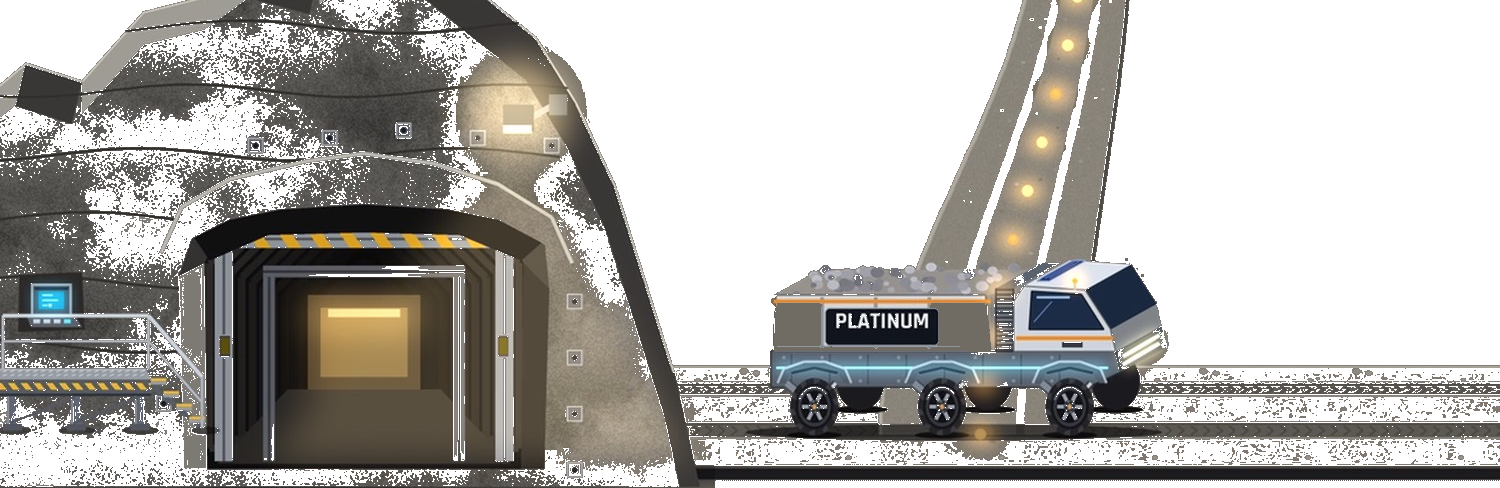
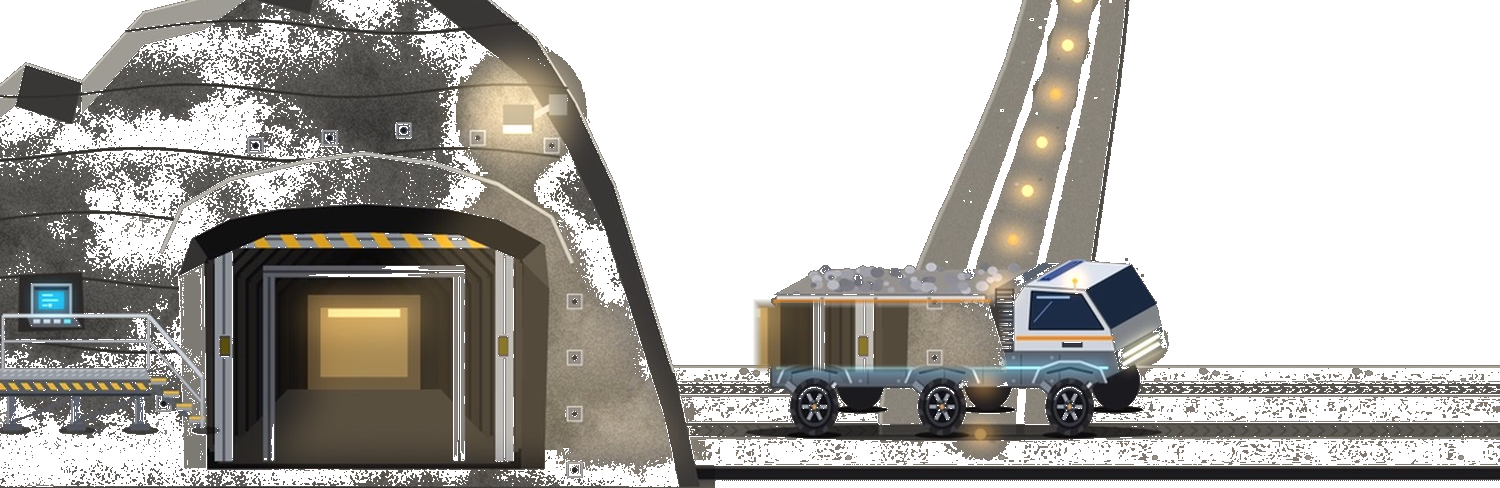
10/14/2026 - planet-stack - 9:35
Take the parked truck out of the mine picture and drive the real truck into the cave and over to the rover bay.

Changed region(s): [[0.4907, 0.6148, 0.6747, 0.7684]]

diff --git a/preview/game.js b/preview/game.js
@@ -374,7 +374,7 @@ const floorFx={},crew={},elev={};
 function crewSync(){F.forEach((d,i)=>{const f=st(i),arr=crew[d.id]||(crew[d.id]=[]);
  while(arr.length<Math.min(4,f.workers))arr.push({x:40+Math.random()*260,v:(Math.random()<.5?-1:1)*30,idle:0,t:Math.random()*5});arr.length=Math.min(arr.length,f.workers)})}
 function crewTick(dt){const m=crewMul();for(const id in crew)for(const a of crew[id]){if(a.idle>0){a.idle-=dt;continue}a.x+=a.v*dt*m;if(a.x<16||a.x>344){a.v=-a.v;a.x=Math.max(16,Math.min(344,a.x))}if(Math.random()<dt*.12)a.idle=1+Math.random()*2}}
-function render(){if(cv.width<20)resize();else{const box=viewBox();if(box.w>20&&(Math.abs(cv.width-Math.round(box.w*DPR))>40||Math.abs(cv.height-Math.round(box.h*DPR))>80))resize()}if(cv.width<20)return;ctx.setTransform(1,0,0,1,0,0);ctx.globalAlpha=1;ctx.globalCompositeOperation='source-over';ctx.fillStyle='#16345c';ctx.fillRect(0,0,cv.width,cv.height);const tag=document.getElementById('pvtag');if(tag&&!tag.dataset.ok){tag.dataset.ok='1';tag.textContent='PREVIEW · 9:20 · ON'}
+function render(){if(cv.width<20)resize();else{const box=viewBox();if(box.w>20&&(Math.abs(cv.width-Math.round(box.w*DPR))>40||Math.abs(cv.height-Math.round(box.h*DPR))>80))resize()}if(cv.width<20)return;ctx.setTransform(1,0,0,1,0,0);ctx.globalAlpha=1;ctx.globalCompositeOperation='source-over';ctx.fillStyle='#16345c';ctx.fillRect(0,0,cv.width,cv.height);const tag=document.getElementById('pvtag');if(tag&&!tag.dataset.ok){tag.dataset.ok='1';tag.textContent='PREVIEW · 9:35 · ON'}
  ctx.setTransform(DPR*SC,0,0,DPR*SC,Math.round(OX*DPR*SC),0);
  const rx=camX(),sx=((-rx*0.05)%390+390)%390,syy=OY*0.5+cam.y*0.05;
  try{if(ok('sky')&&SPR.sky.img.height<=2048)ctx.drawImage(SPR.sky.img,-OX,0,W/SC,H/SC)}catch(e){}
@@ -661,7 +661,7 @@ function drawMineYard(){
  const lg=ctx.createRadialGradient(FG.tunnel+150,-16,6,FG.tunnel+140,-8,110);
  lg.addColorStop(0,'rgba(255,176,80,.42)');lg.addColorStop(1,'rgba(255,176,80,0)');
  ctx.fillStyle=lg;ctx.fillRect(FG.tunnel+40,-90,210,100)}
-const YARD=new Image();YARD.src='art/moon/mine/scene/mine_yard.png?v=1240';
+const YARD=new Image();YARD.src='art/moon/mine/scene/mine_yard.png?v=0935';
 function yardPt(ix,iy){const w=560,h=w*(YARD.naturalHeight||488)/(YARD.naturalWidth||1500);return{x:-300+ix/1500*w,y:6+iy/(YARD.naturalHeight||488)*h}}
 function drawApprovedYard(f){if(!(YARD.complete&&YARD.naturalWidth))return;
  const par=(f.x-195)*(FG.par-1)/TS;
@@ -669,11 +669,11 @@ function drawApprovedYard(f){if(!(YARD.complete&&YARD.naturalWidth))return;
  const w=560,h=w*YARD.naturalHeight/YARD.naturalWidth;
  ctx.drawImage(YARD,-300,6,w,h);   // cave left, lamps on the ground, under the floor. The truck is animated, not baked in.
  ctx.restore()}
-const DUMP=new Image();DUMP.src='art/moon/mine/scene/dump_truck.png?v=1240';
-// Whole truck, transparent around it, never flipped. It drives the road. It does not float up the tower.
+const DUMP=new Image();DUMP.src='art/moon/mine/scene/dump_truck.png?v=0935';
+// Whole truck, transparent around it, never flipped. It drives the road into the cave, then across to the rover bay.
 function drawYardTruck(){if(!S.f.rover||!S.f.rover.built||!(DUMP.complete&&DUMP.naturalWidth))return;
  const sc=560/1500,tw=DUMP.naturalWidth*sc,th=DUMP.naturalHeight*sc;
- const park=yardPt(883,352),mouth=yardPt(520,352),deep=yardPt(400,352),bay=yardPt(1040,352);
+ const park=yardPt(880,360),mouth=yardPt(360,352),deep=yardPt(250,348),bay=yardPt(1180,358);
  const C=12,u=T%C,slide=(a,b,t)=>({x:a.x+(b.x-a.x)*t,y:a.y+(b.y-a.y)*t});
  let p,al=1;
  if(u<3.4)p=slide(park,mouth,u/3.4);

diff --git a/qa/game.js b/qa/game.js
@@ -374,7 +374,7 @@ const floorFx={},crew={},elev={};
 function crewSync(){F.forEach((d,i)=>{const f=st(i),arr=crew[d.id]||(crew[d.id]=[]);
  while(arr.length<Math.min(4,f.workers))arr.push({x:40+Math.random()*260,v:(Math.random()<.5?-1:1)*30,idle:0,t:Math.random()*5});arr.length=Math.min(arr.length,f.workers)})}
 function crewTick(dt){const m=crewMul();for(const id in crew)for(const a of crew[id]){if(a.idle>0){a.idle-=dt;continue}a.x+=a.v*dt*m;if(a.x<16||a.x>344){a.v=-a.v;a.x=Math.max(16,Math.min(344,a.x))}if(Math.random()<dt*.12)a.idle=1+Math.random()*2}}
-function render(){if(cv.width<20)resize();else{const box=viewBox();if(box.w>20&&(Math.abs(cv.width-Math.round(box.w*DPR))>40||Math.abs(cv.height-Math.round(box.h*DPR))>80))resize()}if(cv.width<20)return;ctx.setTransform(1,0,0,1,0,0);ctx.globalAlpha=1;ctx.globalCompositeOperation='source-over';ctx.fillStyle='#16345c';ctx.fillRect(0,0,cv.width,cv.height);const tag=document.getElementById('pvtag');if(tag&&!tag.dataset.ok){tag.dataset.ok='1';tag.textContent='PREVIEW · 9:20 · ON'}
+function render(){if(cv.width<20)resize();else{const box=viewBox();if(box.w>20&&(Math.abs(cv.width-Math.round(box.w*DPR))>40||Math.abs(cv.height-Math.round(box.h*DPR))>80))resize()}if(cv.width<20)return;ctx.setTransform(1,0,0,1,0,0);ctx.globalAlpha=1;ctx.globalCompositeOperation='source-over';ctx.fillStyle='#16345c';ctx.fillRect(0,0,cv.width,cv.height);const tag=document.getElementById('pvtag');if(tag&&!tag.dataset.ok){tag.dataset.ok='1';tag.textContent='PREVIEW · 9:35 · ON'}
  ctx.setTransform(DPR*SC,0,0,DPR*SC,Math.round(OX*DPR*SC),0);
  const rx=camX(),sx=((-rx*0.05)%390+390)%390,syy=OY*0.5+cam.y*0.05;
  try{if(ok('sky')&&SPR.sky.img.height<=2048)ctx.drawImage(SPR.sky.img,-OX,0,W/SC,H/SC)}catch(e){}
@@ -661,7 +661,7 @@ function drawMineYard(){
  const lg=ctx.createRadialGradient(FG.tunnel+150,-16,6,FG.tunnel+140,-8,110);
  lg.addColorStop(0,'rgba(255,176,80,.42)');lg.addColorStop(1,'rgba(255,176,80,0)');
  ctx.fillStyle=lg;ctx.fillRect(FG.tunnel+40,-90,210,100)}
-const YARD=new Image();YARD.src='art/moon/mine/scene/mine_yard.png?v=1240';
+const YARD=new Image();YARD.src='art/moon/mine/scene/mine_yard.png?v=0935';
 function yardPt(ix,iy){const w=560,h=w*(YARD.naturalHeight||488)/(YARD.naturalWidth||1500);return{x:-300+ix/1500*w,y:6+iy/(YARD.naturalHeight||488)*h}}
 function drawApprovedYard(f){if(!(YARD.complete&&YARD.naturalWidth))return;
  const par=(f.x-195)*(FG.par-1)/TS;
@@ -669,11 +669,11 @@ function drawApprovedYard(f){if(!(YARD.complete&&YARD.naturalWidth))return;
  const w=560,h=w*YARD.naturalHeight/YARD.naturalWidth;
  ctx.drawImage(YARD,-300,6,w,h);   // cave left, lamps on the ground, under the floor. The truck is animated, not baked in.
  ctx.restore()}
-const DUMP=new Image();DUMP.src='art/moon/mine/scene/dump_truck.png?v=1240';
-// Whole truck, transparent around it, never flipped. It drives the road. It does not float up the tower.
+const DUMP=new Image();DUMP.src='art/moon/mine/scene/dump_truck.png?v=0935';
+// Whole truck, transparent around it, never flipped. It drives the road into the cave, then across to the rover bay.
 function drawYardTruck(){if(!S.f.rover||!S.f.rover.built||!(DUMP.complete&&DUMP.naturalWidth))return;
  const sc=560/1500,tw=DUMP.naturalWidth*sc,th=DUMP.naturalHeight*sc;
- const park=yardPt(883,352),mouth=yardPt(520,352),deep=yardPt(400,352),bay=yardPt(1040,352);
+ const park=yardPt(880,360),mouth=yardPt(360,352),deep=yardPt(250,348),bay=yardPt(1180,358);
  const C=12,u=T%C,slide=(a,b,t)=>({x:a.x+(b.x-a.x)*t,y:a.y+(b.y-a.y)*t});
  let p,al=1;
  if(u<3.4)p=slide(park,mouth,u/3.4);

diff --git a/preview/index.html b/preview/index.html
@@ -123,4 +123,4 @@ html,body{margin:0;position:fixed;inset:0;overflow:hidden;background:#05070f;col
 <div id="modal"><div class="card"><div style="font:700 20px var(--num)">Welcome back!</div><div id="wbtext" style="color:var(--dim);margin-top:6px"></div><div class="big" id="wbamt"></div><button class="up" id="wbok">COLLECT</button></div></div>
 <div id="demo"><div class="card"><div class="art" id="demoart"></div><div class="kicker" id="demok"></div><h2 id="demoh"></h2><p id="demop"></p><div class="row"><div class="pips" id="demodots"></div><button id="demonext" type="button">NEXT</button></div></div></div>
 <div id="load"><h1>PLANET STACK</h1><div class="bar"><i id="lbar"></i></div></div>
-<script>window.__DEVBUILD=1;const t=document.createElement("div");t.id="pvtag";t.textContent="PREVIEW · 9:20";t.style.cssText="position:fixed;right:calc(env(safe-area-inset-right) + 10px);bottom:calc(env(safe-area-inset-bottom) + 14px);z-index:50;pointer-events:none;font:700 10px/1 system-ui,sans-serif;letter-spacing:1.5px;color:#ffb347;background:rgba(13,20,36,.75);border:1px solid rgba(255,179,71,.6);border-radius:6px;padding:4px 6px";document.body.appendChild(t)</script><script src="game.js?v=0920"></script></body></html>
+<script>window.__DEVBUILD=1;const t=document.createElement("div");t.id="pvtag";t.textContent="PREVIEW · 9:35";t.style.cssText="position:fixed;right:calc(env(safe-area-inset-right) + 10px);bottom:calc(env(safe-area-inset-bottom) + 14px);z-index:50;pointer-events:none;font:700 10px/1 system-ui,sans-serif;letter-spacing:1.5px;color:#ffb347;background:rgba(13,20,36,.75);border:1px solid rgba(255,179,71,.6);border-radius:6px;padding:4px 6px";document.body.appendChild(t)</script><script src="game.js?v=0935"></script></body></html>

diff --git a/qa/index.html b/qa/index.html
@@ -123,4 +123,4 @@ html,body{margin:0;position:fixed;inset:0;overflow:hidden;background:#05070f;col
 <div id="modal"><div class="card"><div style="font:700 20px var(--num)">Welcome back!</div><div id="wbtext" style="color:var(--dim);margin-top:6px"></div><div class="big" id="wbamt"></div><button class="up" id="wbok">COLLECT</button></div></div>
 <div id="demo"><div class="card"><div class="art" id="demoart"></div><div class="kicker" id="demok"></div><h2 id="demoh"></h2><p id="demop"></p><div class="row"><div class="pips" id="demodots"></div><button id="demonext" type="button">NEXT</button></div></div></div>
 <div id="load"><h1>PLANET STACK</h1><div class="bar"><i id="lbar"></i></div></div>
-<script>window.__DEVBUILD=1;const t=document.createElement("div");t.id="pvtag";t.textContent="PREVIEW · 9:20";t.style.cssText="position:fixed;right:calc(env(safe-area-inset-right) + 10px);bottom:calc(env(safe-area-inset-bottom) + 14px);z-index:50;pointer-events:none;font:700 10px/1 system-ui,sans-serif;letter-spacing:1.5px;color:#ffb347;background:rgba(13,20,36,.75);border:1px solid rgba(255,179,71,.6);border-radius:6px;padding:4px 6px";document.body.appendChild(t)</script><script src="game.js?v=0920"></script></body></html>
+<script>window.__DEVBUILD=1;const t=document.createElement("div");t.id="pvtag";t.textContent="PREVIEW · 9:35";t.style.cssText="position:fixed;right:calc(env(safe-area-inset-right) + 10px);bottom:calc(env(safe-area-inset-bottom) + 14px);z-index:50;pointer-events:none;font:700 10px/1 system-ui,sans-serif;letter-spacing:1.5px;color:#ffb347;background:rgba(13,20,36,.75);border:1px solid rgba(255,179,71,.6);border-radius:6px;padding:4px 6px";document.body.appendChild(t)</script><script src="game.js?v=0935"></script></body></html>
